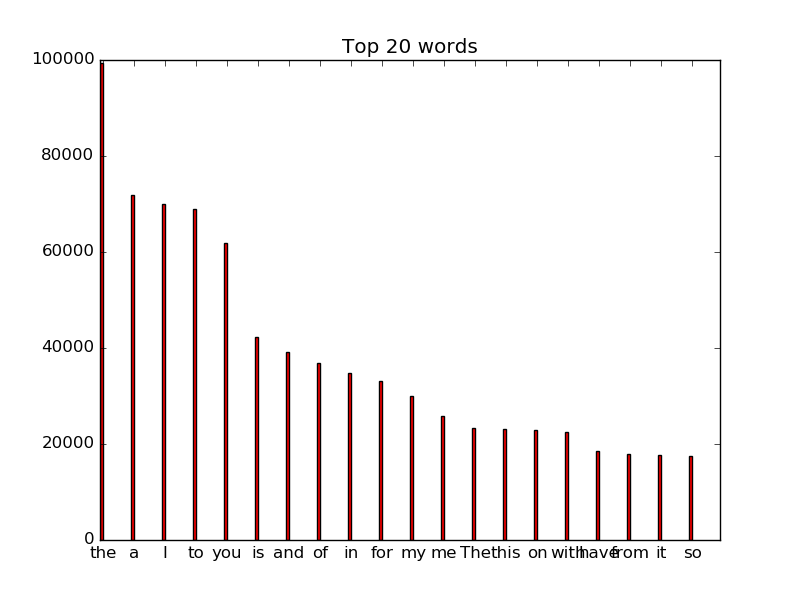
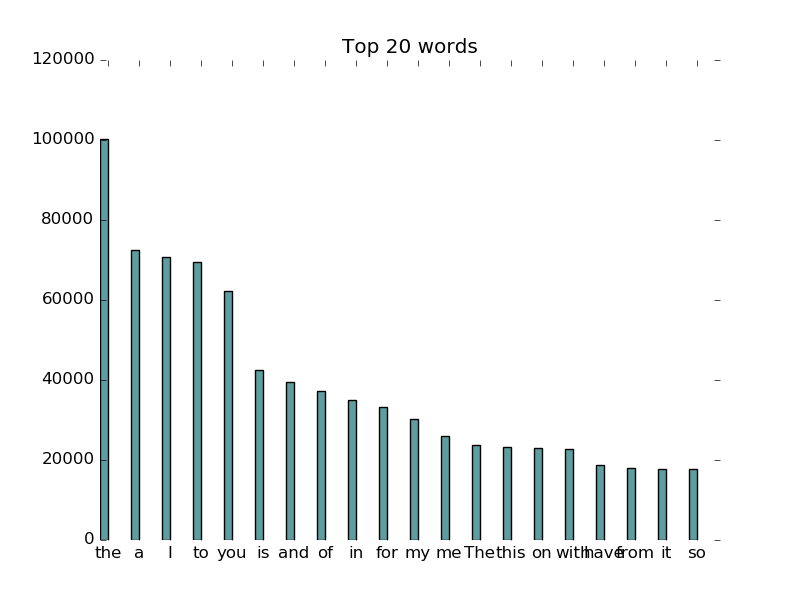
new plot

Changed region(s): [[0.0312, 0.09, 0.9062, 0.93], [0.0312, 0.09, 0.0625, 0.12]]

diff --git a/exercise_2/plot.py b/exercise_2/plot.py
@@ -31,14 +31,17 @@ N = 20
 menMeans = (wordsList_y)
 
 ind = np.arange(N)  # the x locations for the groups
-width = 0.1       # the width of the bars
+width = 0.25       # the width of the bars
 
 fig, ax = plt.subplots()
-rects1 = ax.bar(ind, menMeans, width, color='r')
+rects1 = ax.bar(ind, menMeans, width, color='cadetblue')
 
 ax.set_title('Top 20 words')
 ax.set_xticks(ind + width)
-
+ax.spines['top'].set_visible(False)
+ax.spines['right'].set_visible(False)
+ax.spines['bottom'].set_visible(False)
+ax.spines['left'].set_visible(False)
 
 ax.set_xticklabels((wordsList_x))
 
